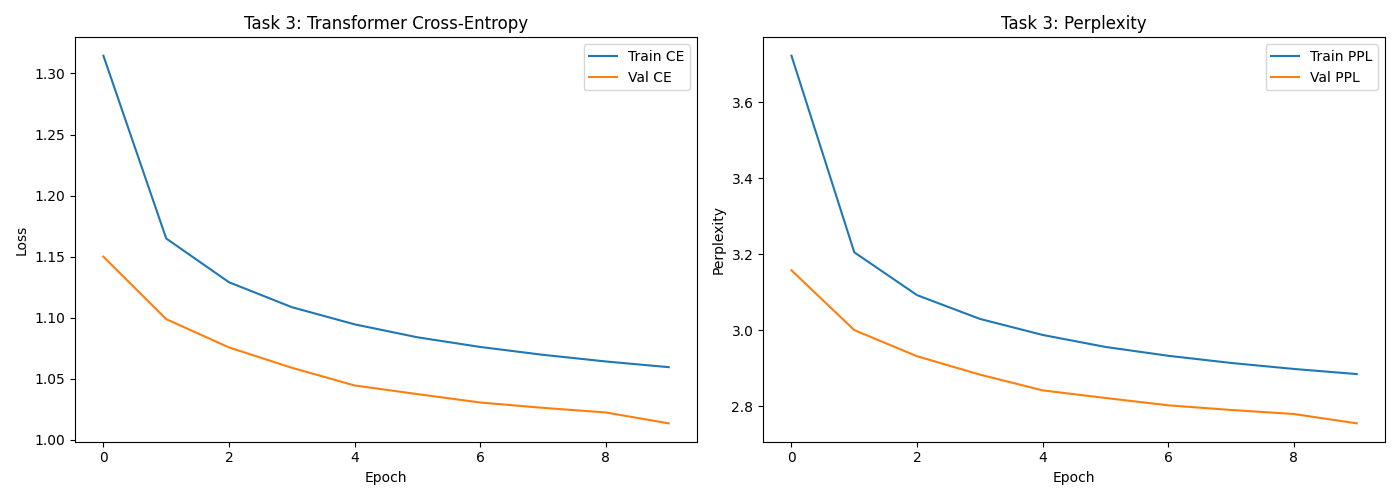
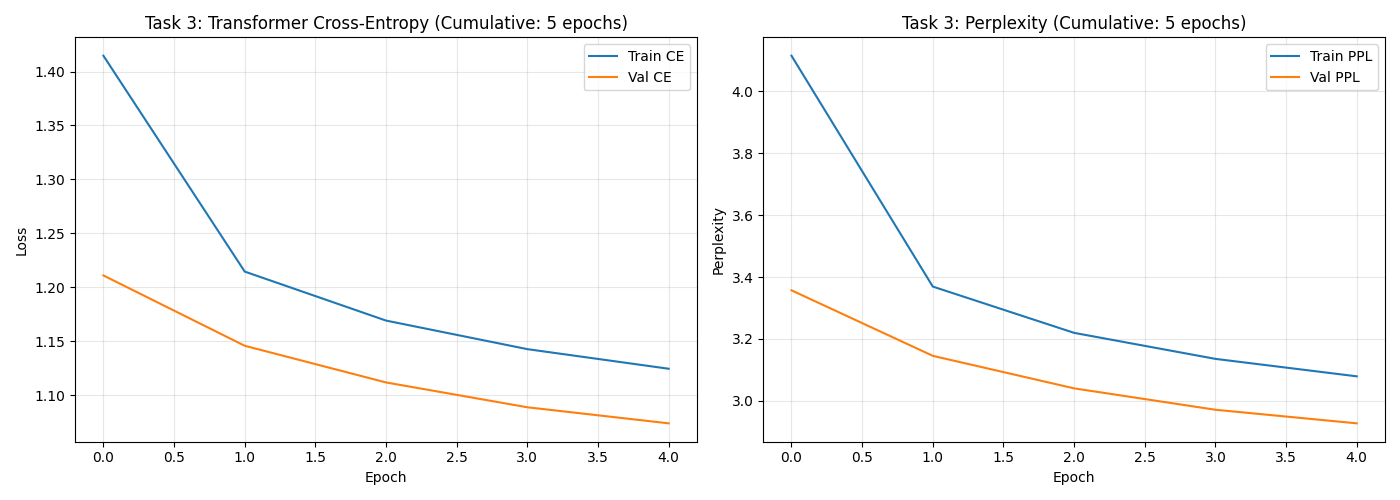
t3 preli 2

diff --git a/src/training/train_transformer.py b/src/training/train_transformer.py
@@ -22,7 +22,6 @@ from src.config import (
     FS,
     GENERATED_MIDI_DIR,
     PLOTS_DIR,
-    PROCESSED_DATA_DIR,
     TRANSFORMER_CONFIG,
 )
 from src.models.transformer import MusicTransformer
@@ -35,6 +34,7 @@ from src.preprocessing.tokenizer import (
     piano_roll_batch_to_event_tokens,
     tokens_to_piano_roll,
 )
+PROCESSED_DATA_DIR = Path("F:/") / "lakh"
 
 
 def load_genre_tokens(genres: list[str], split: str, max_seq_len: int):
@@ -49,7 +49,7 @@ def load_genre_tokens(genres: list[str], split: str, max_seq_len: int):
 
     token_batches = []
     genre_batches = []
-
+    
     valid_genres = []
     for genre in genres:
         path = PROCESSED_DATA_DIR / f"{genre}_{split}.npy"
@@ -116,9 +116,9 @@ def evaluate(
                 break
 
             x, y, g = batch
-            x = x.to(DEVICE)
-            y = y.to(DEVICE)
-            g = g.to(DEVICE)
+            x = x.to(DEVICE, non_blocking=True)
+            y = y.to(DEVICE, non_blocking=True)
+            g = g.to(DEVICE, non_blocking=True)
 
             logits = model(x, genre_ids=g)
             loss = criterion(logits.reshape(-1, logits.size(-1)), y.reshape(-1))
@@ -192,8 +192,8 @@ def train_transformer(
         torch.from_numpy(g_val).long(),
     )
 
-    train_loader = DataLoader(train_ds, batch_size=batch_size, shuffle=True)
-    val_loader = DataLoader(val_ds, batch_size=batch_size, shuffle=False)
+    train_loader = DataLoader(train_ds, batch_size=batch_size, shuffle=True, num_workers=2, pin_memory=True)
+    val_loader = DataLoader(val_ds, batch_size=batch_size, shuffle=False, num_workers=2, pin_memory=True)
 
     model = MusicTransformer(
         vocab_size=VOCAB_SIZE,
@@ -295,22 +295,7 @@ def train_transformer(
         if avg_val_loss < best_val_loss:
             best_val_loss = avg_val_loss
 
-        latest_ckpt = {
-            "model_state_dict": model.state_dict(),
-            "genre_to_id": genre_to_id,
-            "vocab_size": VOCAB_SIZE,
-            "tokenization": "event",
-            "epoch_completed": epoch,
-            "best_val_loss": best_val_loss,
-            "config": {
-                "d_model": TRANSFORMER_CONFIG["d_model"],
-                "nhead": TRANSFORMER_CONFIG["nhead"],
-                "num_layers": TRANSFORMER_CONFIG["num_layers"],
-                "max_seq_len": TRANSFORMER_CONFIG["max_seq_len"],
-            },
-        }
-        torch.save(latest_ckpt, resume_path)
-
+        # Single checkpoint save with all training history
         torch.save(
             {
                 "model_state_dict": model.state_dict(),
@@ -334,41 +319,50 @@ def train_transformer(
             resume_path,
         )
 
+    # Plot cumulative losses/perplexities across all epochs trained so far
     fig, axes = plt.subplots(1, 2, figsize=(14, 5))
 
-    axes[0].plot(train_losses, label="Train CE")
-    axes[0].plot(val_losses, label="Val CE")
-    axes[0].set_title("Task 3: Transformer Cross-Entropy")
+    total_epochs_trained = len(train_losses)
+    epoch_range = list(range(total_epochs_trained))
+
+    axes[0].plot(epoch_range, train_losses, label="Train CE")
+    axes[0].plot(epoch_range, val_losses, label="Val CE")
+    axes[0].set_title(f"Task 3: Transformer Cross-Entropy (Cumulative: {total_epochs_trained} epochs)")
     axes[0].set_xlabel("Epoch")
     axes[0].set_ylabel("Loss")
     axes[0].legend()
+    axes[0].grid(True, alpha=0.3)
 
-    axes[1].plot(train_ppls, label="Train PPL")
-    axes[1].plot(val_ppls, label="Val PPL")
-    axes[1].set_title("Task 3: Perplexity")
+    axes[1].plot(epoch_range, train_ppls, label="Train PPL")
+    axes[1].plot(epoch_range, val_ppls, label="Val PPL")
+    axes[1].set_title(f"Task 3: Perplexity (Cumulative: {total_epochs_trained} epochs)")
     axes[1].set_xlabel("Epoch")
     axes[1].set_ylabel("Perplexity")
     axes[1].legend()
+    axes[1].grid(True, alpha=0.3)
 
     plt.tight_layout()
     plot_path = PLOTS_DIR / "task3_transformer_curves.png"
     plt.savefig(plot_path)
     plt.close(fig)
-    print(f"[TR] Saved plot to {plot_path}")
+    print(f"[TR] Saved cumulative plot ({total_epochs_trained} epochs) to {plot_path}")
 
+    # Cumulative summary
     summary_path = PLOTS_DIR / "task3_perplexity_summary.json"
     with summary_path.open("w", encoding="utf-8") as f:
         json.dump(
             {
+                "total_epochs_trained": total_epochs_trained,
                 "best_val_loss": best_val_loss,
                 "best_val_perplexity": float(np.exp(best_val_loss)),
                 "last_val_loss": val_losses[-1] if val_losses else None,
                 "last_val_perplexity": val_ppls[-1] if val_ppls else None,
+                "epoch_range": epoch_range,
             },
             f,
             indent=2,
         )
-    print(f"[TR] Saved summary to {summary_path}")
+    print(f"[TR] Saved cumulative summary ({total_epochs_trained} epochs total) to {summary_path}")
     print(f"[TR] Training complete. Use 'python src/generation/generate_music.py --model transformer' to generate samples.")
 
 

diff --git a/src/models/transformer.py b/src/models/transformer.py
@@ -75,8 +75,8 @@ class MusicTransformer(nn.Module):
         x = x + genre_cond
 
         x = self.dropout(x)
-
-        mask = self.causal_mask(seq_len=seq_len, device=tokens.device)
-        h = self.transformer(x, mask=mask)
+        
+        mask = nn.Transformer.generate_square_subsequent_mask(seq_len, device=tokens.device)
+        h = self.transformer(x, mask=mask, is_causal=True)  # (batch, seq_len, d_model)
         logits = self.head(h)
         return logits

diff --git a/src/config.py b/src/config.py
@@ -72,8 +72,8 @@ TRANSFORMER_CONFIG = {
     "nhead": 8,
     "num_layers": 6,
     "max_seq_len": 256,
-    "batch_size": 16,
-    "epochs": 20,
+    "batch_size": 64,
+    "epochs": 5,
     "lr": 1e-4
 }
 